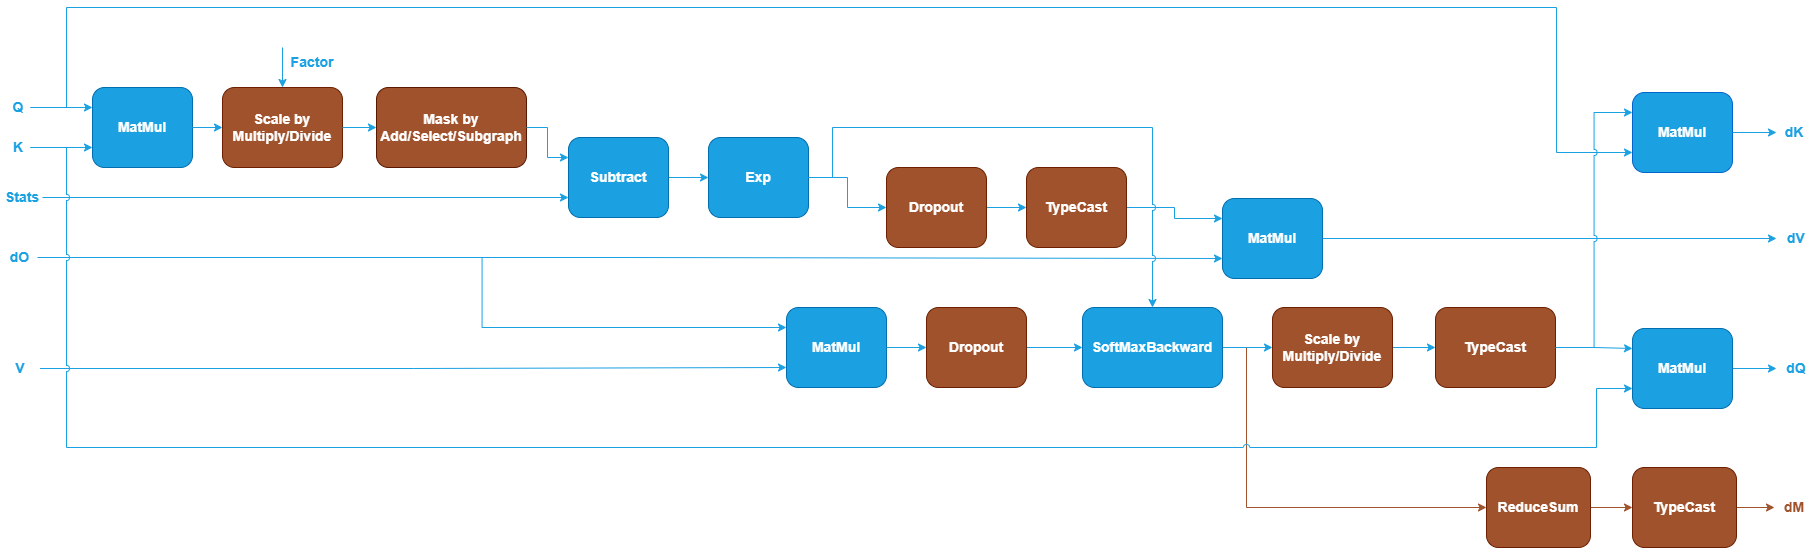
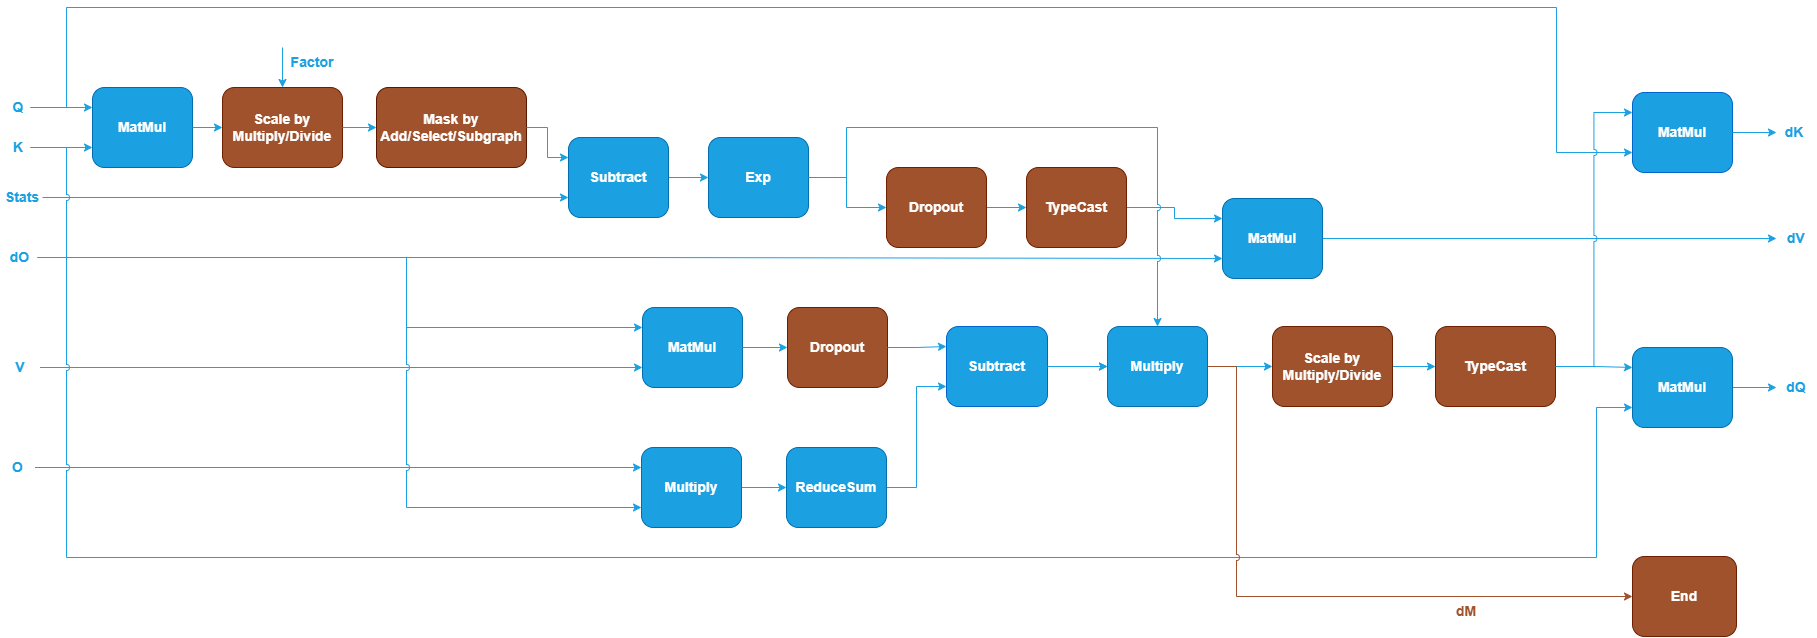
doc: graph: update sdpa and gqa backward pattern

diff --git a/doc/graph/fusion_patterns/gqa.md b/doc/graph/fusion_patterns/gqa.md
@@ -132,15 +132,17 @@ The blue nodes are required while the brown nodes are optional.
 7. The Dropout operation takes the gradients of the dropped probabilities as
    input and computes gradients with respect to the normalized probabilities.
    See [Dropout](@ref dev_guide_op_dropout) in Graph API.
-8. The SoftMaxBackward operation computes the gradients of the scaled output.
-   See [SoftMaxBackward](@ref dev_guide_op_softmaxbackward) in Graph API.
-9. The Scale node after SoftMaxBackward corresponds to the forward Scale node
+8. The Multiply, ReduceSum, Subtract, and Multiply operations are used to
+   compute the gradients with respect to the scaled output according to the
+   formula: dS = P * (dP - ReduceSum(O * dO)), where P denotes the normalized
+   probabilities and dP denotes the gradients with respect to them.
+9. The Scale node after Multiply corresponds to the forward Scale node
    and is used to compute the gradients of the score.
 10. The TypeCast, two MatMul and ReduceSum operations after the Scale node
    compute the gradients with respect to Query and Key, respectively. TypeCast
    is required for bf16 and f16 training scenarios. ReduceSum reduces the Key
    gradients from (N, H_kv, N_rep, S, D) to (N, H_kv, 1, S, D).
-11. The optional End operation marks the output of SoftMaxBackward as a
+11. The optional End operation marks the output of Multiply as a
     partition output, representing the gradients with respect to the Mask. Note
     that the output shape of `dM` is (N, H_kv, N_rep, S, S) and the data
     type is f32. The library does not perform any reduction or typecast on this

diff --git a/doc/graph/fusion_patterns/sdpa.md b/doc/graph/fusion_patterns/sdpa.md
@@ -135,14 +135,16 @@ are optional.
 7. The Dropout operation takes the gradients of the dropped probabilities as
    input and computes gradients with respect to the normalized probabilities.
    See [Dropout](@ref dev_guide_op_dropout) in Graph API.
-8. The SoftMaxBackward operation computes the gradients of the scaled output.
-   See [SoftMaxBackward](@ref dev_guide_op_softmaxbackward) in Graph API.
-9. The Scale node after SoftMaxBackward corresponds to the forward Scale node
+8. The Multiply, ReduceSum, Subtract, and Multiply operations are used to
+   compute the gradients with respect to the scaled output according to the
+   formula: dS = P * (dP - ReduceSum(O * dO)), where P denotes the normalized
+   probabilities and dP denotes the gradients with respect to them.
+9. The Scale node after Multiply corresponds to the forward Scale node
    and is used to compute the gradients of the score.
 10. The TypeCast and two MatMul operations after the Scale node compute the
    gradients with respect to Query and Key, respectively. TypeCast is required
    for bf16 and f16 training scenarios.
-11. The optional End operation marks the output of SoftMaxBackward as a
+11. The optional End operation marks the output of Multiply as a
     partition output, representing the gradients with respect to the Mask. Note
     that the output shape of `dM` is (N, H, S, S) and the data
     type is f32. The library does not perform any reduction or typecast on this